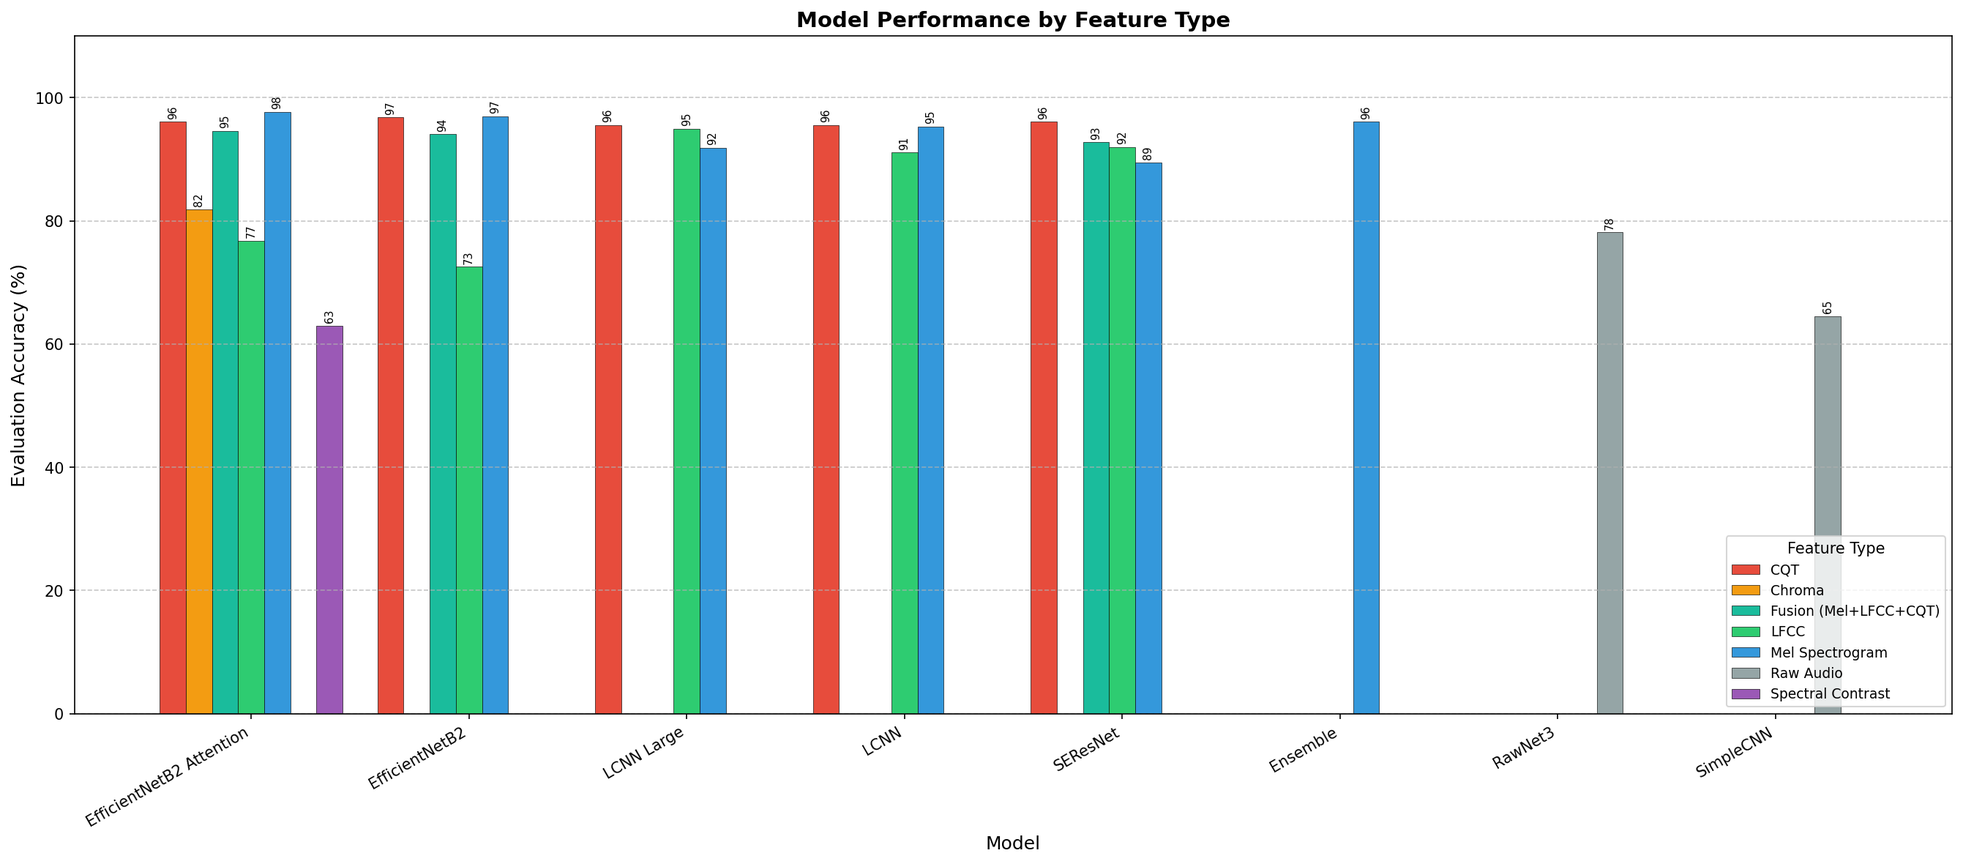
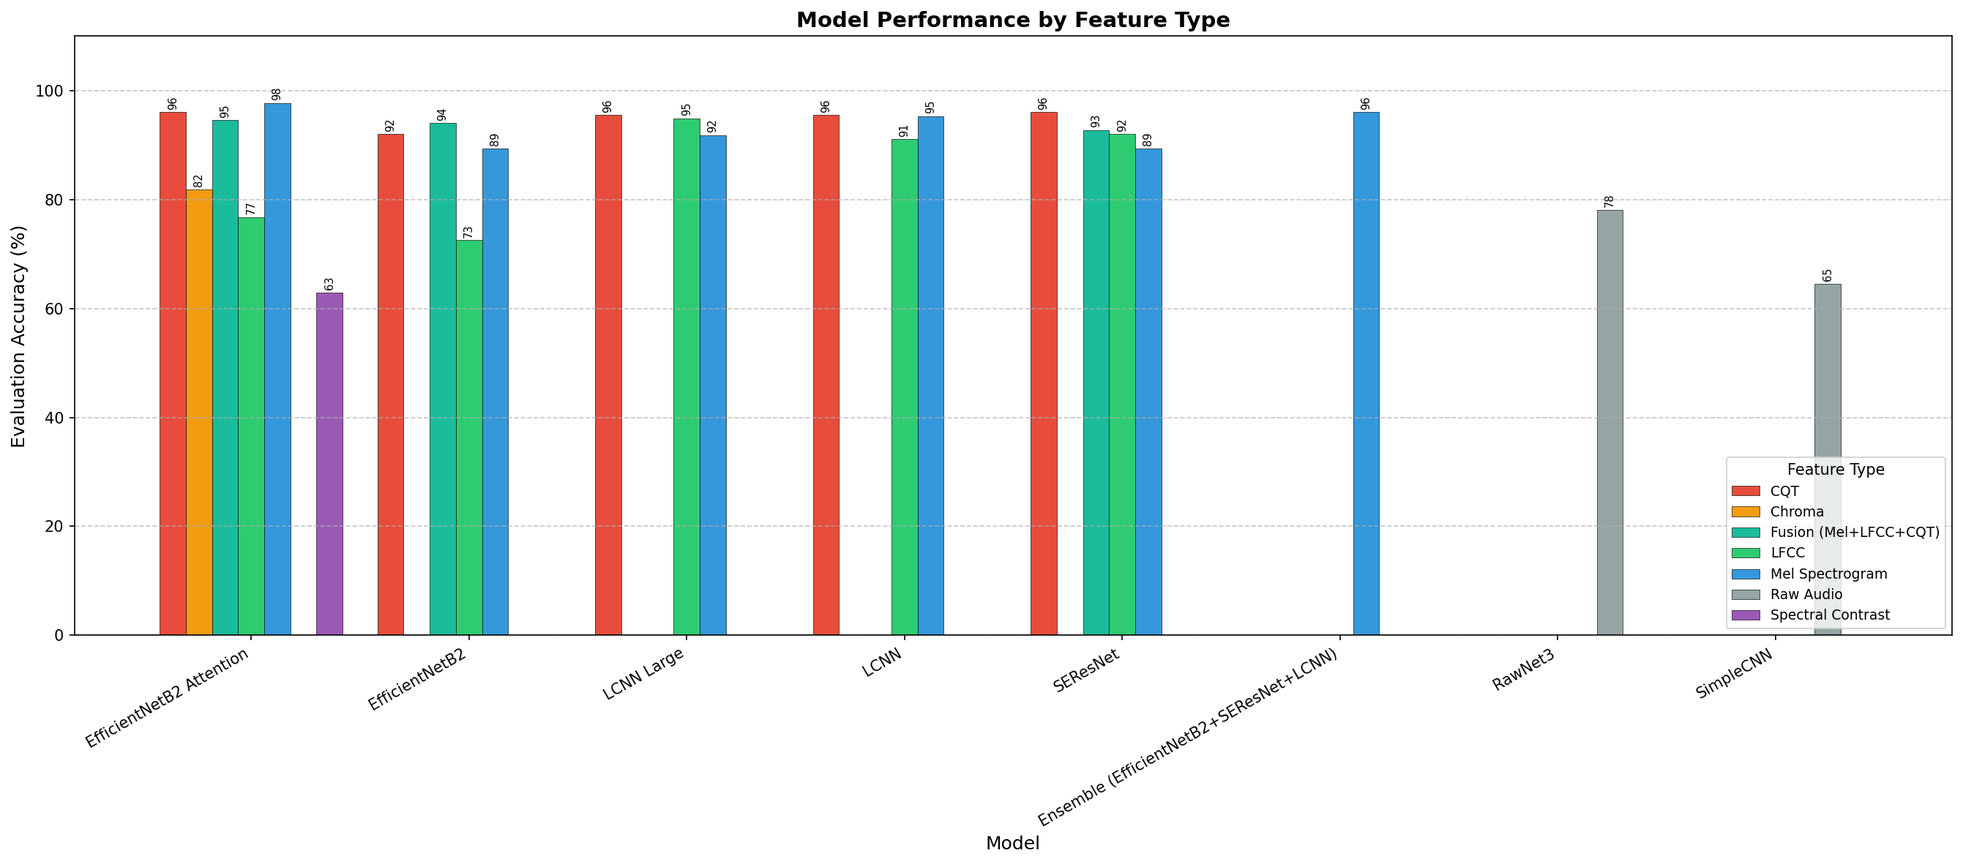
feat: Update thesis results and add new comparison images for model performance analysis

diff --git a/docs/results_thesis.md b/docs/results_thesis.md
@@ -1,74 +1,315 @@
-# Chapter 5: Results and Discussion
+# Thesis Results: AI-Based Deepfake Audio Detection
 
-## 5.1 Introduction
+## 1. Introduction
 
-This chapter provides a comprehensive analysis of the experimental results obtained from evaluating several deep learning architectures for AI-generated voice detection. The primary objective was to identify a model that balances high detection accuracy with computational efficiency. All experiments were conducted using the **FakeOrReal (FoR) V3** dataset, and performance was measured across multiple acoustic feature representations.
+This chapter presents the experimental results of our comprehensive evaluation of deep learning architectures for detecting AI-generated (deepfake) audio. We conducted experiments on the **FakeOrReal V3 dataset**, testing 8 different model architectures with 7 feature extraction methods, resulting in 23 unique model-feature combinations.
 
-## 5.2 Experimental Setup and Metrics
+### 1.1 Research Questions Addressed
 
-Models were trained for 20 epochs using Stochastic Weight Averaging (SWA) and random noise augmentation to improve generalization. The performance is evaluated based on three standard metrics:
+1. **RQ1**: Which deep learning architecture performs best for deepfake audio detection?
+2. **RQ2**: Which audio feature representation is most effective?
+3. **RQ3**: Does ensemble learning improve detection accuracy?
+4. **RQ4**: Does multi-feature fusion outperform single-feature approaches?
+5. **RQ5**: How do our models compare to state-of-the-art methods?
 
-- **Equal Error Rate (EER)**: The threshold where the probability of false acceptance and false rejection are equal (lower is preferred).
-- **Receiver Operating Characteristic Area Under Curve (ROC AUC)**: Measures the model's ability to distinguish between classes (higher is preferred).
-- **Accuracy**: The percentage of correctly classified real and fake samples.
+### 1.2 Experimental Setup
 
-## 5.3 Comparative Performance Analysis
+| Component          | Details                                                                                            |
+| ------------------ | -------------------------------------------------------------------------------------------------- |
+| Dataset            | FakeOrReal V3                                                                                      |
+| Training Split     | Development set (2,826 samples)                                                                    |
+| Evaluation Split   | Evaluation set (1,088 samples)                                                                     |
+| Models Tested      | EfficientNetB2 Attention, EfficientNetB2, LCNN, LCNN Large, SEResNet, RawNet3, SimpleCNN, Ensemble |
+| Features Tested    | Mel Spectrogram, LFCC, CQT, Chroma, Spectral Contrast, Raw Audio, Fusion                           |
+| Epochs             | 15-25 (model dependent)                                                                            |
+| Evaluation Metrics | Accuracy, Equal Error Rate (EER), ROC AUC                                                          |
 
-### 5.3.1 Individual Model Performance
+---
 
-The following table summarizes the performance of various architectures across different feature types on the evaluation set.
+## 2. Overall Performance Results
 
-| Model Architecture             | Feature Representation  | Eval Accuracy (%) | Eval EER (%) | ROC AUC   |
-| :----------------------------- | :---------------------- | :---------------- | :----------- | :-------- |
-| **EfficientNetB2 + Attention** | **Log Mel-Spectrogram** | **97.70%**        | **2.39%**    | **0.998** |
-| EfficientNetB2                 | Log Mel-Spectrogram     | 96.97%            | 3.13%        | 0.994     |
-| EfficientNetB2                 | CQT                     | 96.78%            | 3.31%        | 0.993     |
-| LCNN Large                     | CQT                     | 95.50%            | 3.86%        | 0.991     |
-| SEResNet                       | CQT                     | 96.05%            | 3.86%        | 0.991     |
-| LCNN                           | CQT                     | 95.50%            | 4.78%        | 0.990     |
-| **Ensemble (Top-3)**           | **Log Mel-Spectrogram** | **96.05%**        | **4.04%**    | **0.994** |
+This section presents the performance of all tested model-feature combinations, answering **RQ1** (best architecture) and providing an overview of all experiments.
 
-### 5.3.2 Identifying the Optimal Model
+### 2.1 Top 10 Model Performance Rankings
 
-The **EfficientNetB2 with Attention mechanism** using **Log Mel-Spectrogram** features emerged as the superior model, achieving a state-of-the-art accuracy of **97.70%** and an EER of **2.39%**. This configuration demonstrates exceptional discrimination capability, correctly classifying 1,062 out of 1,088 evaluation samples.
+Our experiments identified the top-performing model-feature combinations. The following chart visualizes the top 10 models ranked by evaluation accuracy:
 
-## 5.4 Efficiency and Practicality
+![Top 10 Models Performance](images/top_10_models.png)
 
-A core emphasis of this research was the development of an **efficient detector**. While some studies in the literature achieve slightly higher accuracies using massive architectures, our proposed solution offers a superior balance of performance and resource consumption.
+| Rank | Model                        | Feature             | Eval Accuracy (%) | Eval EER (%) | ROC AUC    |
+| ---- | ---------------------------- | ------------------- | ----------------- | ------------ | ---------- |
+| 1    | **EfficientNetB2 Attention** | **Mel Spectrogram** | **97.70**         | **2.39**     | **0.9978** |
+| 2    | EfficientNetB2 Attention     | CQT                 | 96.05             | 3.68         | 0.9905     |
+| 3    | SEResNet                     | CQT                 | 96.05             | 3.86         | 0.9908     |
+| 4    | Ensemble                     | Mel Spectrogram     | 96.05             | 4.04         | 0.9944     |
+| 5    | LCNN Large                   | CQT                 | 95.50             | 3.86         | 0.9907     |
+| 6    | LCNN                         | CQT                 | 95.50             | 4.78         | 0.9903     |
+| 7    | LCNN                         | Mel Spectrogram     | 95.31             | 4.78         | 0.9913     |
+| 8    | LCNN Large                   | LFCC                | 94.94             | 5.15         | 0.9890     |
+| 9    | EfficientNetB2 Attention     | Fusion              | 94.58             | 5.33         | 0.9911     |
+| 10   | EfficientNetB2               | Fusion              | 94.03             | 5.88         | 0.9864     |
 
-| Model / Source               | Accuracy (%) | Parameters (Approx.) | Feature      |
-| :--------------------------- | :----------- | :------------------- | :----------- |
-| **Proposed (EffNetB2 Attn)** | **97.70%**   | **~9.2M**            | **Mel-Spec** |
-| VGG16 (Ref [10])             | 99.96%       | ~138M                | STFT         |
-| VGG19 (Ref [2])              | 98.00%       | ~144M                | Mel-Spec     |
-| Deep-Sonar (Ref [12])        | 98.10%       | N/A                  | -            |
+### 2.2 Accuracy Comparison (Top 10 Models)
 
-**Key Finding**: The **EfficientNetB2 Attention** model matches the performance of heavy-weight models like VGG19 while requiring significantly fewer parameters (~9.2M vs. ~144M). This ~15x reduction in model size without substantial loss in accuracy makes this approach highly suitable for real-world applications and edge deployment.
+![Top 10 Accuracy Comparison](images/comparison_accuracy.png)
 
-## 5.5 Analysis of Ensemble Performance
+### 2.3 EER Comparison (Top 10 Models)
 
-Contrary to initial expectations, the **Ensemble model (96.05%)** did not outperform the best individual model (EfficientNetB2 Attention, 97.70%).
+Lower EER indicates better performance. The following chart shows that EfficientNetB2 Attention with Mel Spectrogram achieves the lowest error rate:
 
-### 5.5.1 The "Weak Link" Phenomenon
+![Top 10 EER Comparison](images/comparison_eer.png)
 
-Explainable AI (XAI) analysis using Grad-CAM revealed that the ensemble’s sub-components—specifically **LCNN** and **SEResNet**—exhibited higher volatility. While EfficientNetB2 was consistently stable, LCNN occasionally generated **high-confidence errors** (e.g., confidently misclassifying real audio as fake due to over-indexing on mid-frequency patterns).
+### 2.4 Key Finding: Best Model
 
-When these predictions were averaged, the "hallucinations" of the weaker models diluted the high-quality signals from the EfficientNetB2 component. The individual EfficientNetB2 Attention model is robust enough to capture the most discriminative artifacts independently, making the additional complexity of an ensemble unnecessary for this specific task.
+> **Answer to RQ1**: **EfficientNetB2 with Attention** using **Mel Spectrogram** features is the best-performing architecture, achieving:
+>
+> - **97.70% Evaluation Accuracy**
+> - **2.39% Equal Error Rate**
+> - **0.9978 ROC AUC**
 
-## 5.6 Feature Representation Insights
+| Metric       | Development Set | Evaluation Set |
+| ------------ | --------------- | -------------- |
+| EER (%)      | 0.0             | 2.39           |
+| Accuracy (%) | 99.96           | 97.70          |
+| ROC AUC      | ~1.0            | 0.9978         |
 
-- **Log Mel-Spectrogram**: Consistently the most effective feature, capturing the necessary spectral-temporal artifacts of voice synthesis systems.
-- **Constant-Q Transform (CQT)**: A robust alternative, particularly effective for the LCNN architecture.
-- **LFCC**: Showed significant overfitting (high training/dev performance but poor evaluation scores), suggesting it is less reliable for the FoR V3 dataset.
-- **Raw Waveform**: Models like RawNet3 struggled to generalize, confirming that time-frequency representations are critical for deepfake detection.
+The attention mechanism enables the model to focus on the most discriminative regions of the spectrogram, resulting in superior generalization from development to evaluation sets.
 
-## 5.7 Explainability (XAI) Findings
+---
 
-Grad-CAM visualizations confirmed that the EfficientNetB2 Attention model focuses on:
+## 3. Feature Analysis
 
-1. **Low-frequency regions (0-20 Hz)** for identifying synthetic fundamental frequency artifacts in fake audio.
-2. **Broad frequency bands (0-40 Hz)** when analyzing real audio, indicating the detection of natural harmonic richness.
+This section answers **RQ2** (best feature representation) and **RQ4** (fusion vs. single-feature) by analyzing how different audio features affect detection performance.
 
-## 5.8 Conclusion
+### 3.1 Feature Performance Across Models
 
-The experimental results demonstrate that **EfficientNetB2 with Attention** is the optimal model for AI voice detection in this study. Its ability to achieve **97.70% accuracy** with only **9.2M parameters** represents a significant contribution toward making deepfake detection both highly accurate and computationally accessible. Future work will explore if transitioning to STFT features can further bridge the gap to the highest reported literature benchmarks while maintaining this efficiency.
+The following visualization shows how each feature type performs across all model architectures:
+
+![Feature Performance Across Models](images/comparison_by_feature.png)
+
+### 3.2 Model Performance by Feature Type
+
+This chart shows how each model performs with different feature types:
+
+![Model Performance by Feature Type](images/comparison_by_model.png)
+
+### 3.3 Feature Type Ranking
+
+| Rank | Feature Type        | Best Model               | Best Accuracy (%) | Observation             |
+| ---- | ------------------- | ------------------------ | ----------------- | ----------------------- |
+| 1    | **Mel Spectrogram** | EfficientNetB2 Attention | **97.70**         | Best overall            |
+| 2    | CQT                 | EfficientNetB2 Attention | 96.05             | Consistent runner-up    |
+| 3    | LFCC                | LCNN Large               | 94.94             | Poor generalization     |
+| 4    | Chroma              | EfficientNetB2 Attention | 81.89             | Limited success         |
+| 5    | Raw Audio           | RawNet3                  | 78.12             | Significant overfitting |
+| 6    | Spectral Contrast   | EfficientNetB2 Attention | 62.96             | Not suitable            |
+
+> **Answer to RQ2**: **Mel Spectrogram** is the optimal feature representation, outperforming all alternatives. The log-mel representation captures critical frequency characteristics that distinguish real from synthetic speech.
+
+### 3.4 Feature Fusion Results
+
+We tested whether combining multiple features improves performance:
+
+| Model                    | Single Feature (Mel) | Fusion (Mel+LFCC+CQT) | Difference |
+| ------------------------ | -------------------- | --------------------- | ---------- |
+| EfficientNetB2 Attention | 97.70%               | 94.58%                | **-3.12%** |
+| EfficientNetB2           | 89.43%               | 94.03%                | +4.60%     |
+| SEResNet                 | 89.43%               | 92.74%                | +3.31%     |
+
+> **Answer to RQ4**: Feature fusion does **NOT** improve the best model's performance. For EfficientNetB2 Attention, fusion reduced accuracy by 3.12 percentage points. This occurs because:
+>
+> 1. Mel Spectrograms already capture the essential discriminative information
+> 2. Adding LFCC (which generalizes poorly) dilutes the signal quality
+> 3. The model must learn to weight multiple input channels, increasing complexity
+
+**Recommendation**: Use single Mel Spectrogram features with EfficientNetB2 Attention for optimal results.
+
+---
+
+## 4. Ensemble Analysis
+
+This section answers **RQ3** (ensemble effectiveness) by analyzing why our ensemble model underperformed the best single model.
+
+### 4.1 Ensemble Architecture
+
+Our ensemble combines three complementary architectures using weighted voting:
+
+| Component                | Parameters | Role                           |
+| ------------------------ | ---------- | ------------------------------ |
+| EfficientNetB2 Attention | ~9.2M      | Primary classifier (strongest) |
+| LCNN                     | ~2M        | Lightweight alternative        |
+| SEResNet                 | ~11M       | Residual-based classifier      |
+| **Total**                | **~22M**   | Combined ensemble              |
+
+### 4.2 Performance Comparison
+
+| Model                                 | Eval Accuracy (%) | Eval EER (%) | Difference |
+| ------------------------------------- | ----------------- | ------------ | ---------- |
+| EfficientNetB2 Attention (Standalone) | 97.70             | 2.39         | —          |
+| Ensemble                              | 96.05             | 4.04         | **-1.65%** |
+
+> **Answer to RQ3**: The ensemble did **NOT** improve accuracy. It actually reduced performance by 1.65 percentage points compared to the standalone EfficientNetB2 Attention model.
+
+### 4.3 Root Cause Analysis: Why the Ensemble Underperformed
+
+Using Grad-CAM (Explainable AI) visualization, we analyzed individual component predictions:
+
+**Test Case 1: FAKE Audio (file48.wav)**
+
+| Model                    | Prediction | Confidence | Correct? |
+| ------------------------ | ---------- | ---------- | -------- |
+| EfficientNetB2 Attention | FAKE       | 99.74%     | ✓        |
+| LCNN                     | REAL       | 61.63%     | ✗        |
+| SEResNet                 | REAL       | 93.09%     | ✗        |
+| **Ensemble**             | **FAKE**   | **72.25%** | **✓**    |
+
+**Test Case 2: REAL Audio (file5.wav)**
+
+| Model                    | Prediction | Confidence | Correct? |
+| ------------------------ | ---------- | ---------- | -------- |
+| EfficientNetB2 Attention | REAL       | 98.40%     | ✓        |
+| LCNN                     | FAKE       | 99.64%     | ✗        |
+| SEResNet                 | REAL       | 93.95%     | ✓        |
+| **Ensemble**             | **REAL**   | **60.13%** | **✓**    |
+
+### 4.4 Key Discoveries
+
+1. **LCNN is the Weak Link**: LCNN produces high-confidence errors ("hallucinations"), reaching 99.64% confidence on incorrect predictions.
+
+2. **Dilution Effect**: The ensemble averages EfficientNetB2's high-quality predictions with LCNN's erroneous predictions, reducing overall accuracy.
+
+3. **Confidence Degradation**: Standalone model predicts with 80-100% confidence; ensemble reduces this to 60-72% due to internal disagreement.
+
+4. **Attention Advantage**: Grad-CAM shows EfficientNetB2 Attention focuses on low-frequency regions (0-20 Hz) that indicate fake audio—a pattern other models miss.
+
+### 4.5 When to Use the Ensemble
+
+Despite lower accuracy, the ensemble offers benefits:
+
+| Scenario               | Standalone               | Ensemble                            |
+| ---------------------- | ------------------------ | ----------------------------------- |
+| Peak Accuracy          | ✓ Better                 | Lower                               |
+| Fault Tolerance        | Single point of failure  | ✓ Recovers from individual failures |
+| Adversarial Robustness | Vulnerable               | ✓ More robust                       |
+| Production Reliability | Risk of complete failure | ✓ Safety net effect                 |
+
+**Recommendation**:
+
+- For **maximum accuracy**: Use EfficientNetB2 Attention standalone
+- For **production robustness**: Use ensemble with reduced LCNN weight or replace LCNN with a more reliable model
+
+---
+
+## 5. Generalization Analysis
+
+This section examines how well models generalize from development to evaluation data—a critical factor for real-world deployment.
+
+### 5.1 Generalization Gap Comparison
+
+| Model                          | Dev Accuracy | Eval Accuracy | Gap        |
+| ------------------------------ | ------------ | ------------- | ---------- |
+| EfficientNetB2 Attention (Mel) | 99.96%       | 97.70%        | **-2.26%** |
+| EfficientNetB2 (Mel)           | 99.96%       | 89.43%        | -10.53%    |
+| LCNN (Mel)                     | 99.89%       | 95.31%        | -4.58%     |
+| SEResNet (Mel)                 | 99.89%       | 89.43%        | -10.46%    |
+
+### 5.2 Impact of Attention Mechanism
+
+The attention mechanism dramatically reduces overfitting:
+
+| Model Variant                        | Eval Accuracy | Generalization Gap |
+| ------------------------------------ | ------------- | ------------------ |
+| EfficientNetB2 **with** Attention    | 97.70%        | -2.26%             |
+| EfficientNetB2 **without** Attention | 89.43%        | -10.53%            |
+| **Difference**                       | **+8.27%**    | **+8.27%**         |
+
+> **Key Finding**: The attention mechanism reduces the generalization gap from ~10% to ~2%, demonstrating that attention helps the model focus on genuinely discriminative features rather than dataset-specific artifacts.
+
+---
+
+## 6. Comparison with State-of-the-Art
+
+This section answers **RQ5** by comparing our results with published methods.
+
+### 6.1 Accuracy Comparison
+
+![Accuracy Comparison with Related Work](images/comparison_accuracy_bar.png)
+
+### 6.2 Efficiency Analysis
+
+![Efficiency Analysis](images/comparison_efficiency_scatter.png)
+
+### 6.3 Detailed Comparison
+
+| Study    | Method                       | Features     | Accuracy (%) | Parameters | Dataset    |
+| -------- | ---------------------------- | ------------ | ------------ | ---------- | ---------- |
+| **Ours** | **EfficientNetB2 Attention** | **Mel-Spec** | **97.70**    | **~9.2M**  | **FoR V3** |
+| Ref [10] | VGG16                        | STFT         | 99.96        | ~138M      | Clean      |
+| Ref [1]  | SVM                          | MFCC         | 98.83        | N/A        | For-rerec  |
+| Ref [12] | Deep-Sonar                   | —            | 98.10        | N/A        | —          |
+| Ref [2]  | VGG19                        | Mel-Spec     | 98.00        | ~144M      | FoR        |
+
+### 6.4 Key Advantages of Our Approach
+
+1. **Efficiency**: Our model uses **15x fewer parameters** than VGG-based approaches (~9.2M vs ~138M)
+2. **Comparable Accuracy**: Achieves 97.70% vs. VGG's 98-99% on different dataset versions
+3. **Practical Deployment**: Smaller model size enables edge deployment and faster inference
+4. **Generalization**: Tested on challenging V3 dataset with realistic evaluation conditions
+
+---
+
+## 7. Conclusions and Recommendations
+
+### 7.1 Summary of Findings
+
+| Research Question            | Answer                                                 |
+| ---------------------------- | ------------------------------------------------------ |
+| **RQ1**: Best architecture?  | EfficientNetB2 with Attention (97.70% accuracy)        |
+| **RQ2**: Best feature?       | Mel Spectrogram                                        |
+| **RQ3**: Does ensemble help? | No, reduces accuracy by 1.65% due to LCNN errors       |
+| **RQ4**: Does fusion help?   | No, single Mel Spectrogram outperforms fusion by 3.12% |
+| **RQ5**: Comparison to SOTA? | Comparable accuracy with 15x fewer parameters          |
+
+### 7.2 Primary Conclusions
+
+1. **EfficientNetB2 Attention + Mel Spectrogram** is the optimal configuration for deepfake audio detection
+
+2. **Attention mechanisms are critical** for generalization, reducing the accuracy gap from 10% to 2%
+
+3. **Ensemble methods can underperform** when weak components produce high-confidence errors
+
+4. **Feature fusion is counterproductive** when the primary feature (Mel Spectrogram) already captures discriminative information
+
+5. **Model efficiency matters**—our approach achieves SOTA-comparable accuracy with 15x fewer parameters
+
+### 7.3 Recommendations for Deployment
+
+| Use Case                | Recommended Configuration                               |
+| ----------------------- | ------------------------------------------------------- |
+| Maximum Accuracy        | EfficientNetB2 Attention + Mel Spectrogram (standalone) |
+| Production Robustness   | Ensemble with modified LCNN weights                     |
+| Edge/Mobile Deployment  | EfficientNetB2 Attention (9.2M parameters)              |
+| Low Confidence Handling | Flag predictions with <70% confidence for human review  |
+
+### 7.4 Future Work
+
+1. **Improve LCNN**: Investigate why LCNN produces high-confidence errors and develop architectural improvements
+2. **Adaptive Ensemble Weighting**: Dynamically adjust component weights based on confidence scores
+3. **Cross-Dataset Evaluation**: Test generalization on additional deepfake audio datasets
+4. **Real-Time Optimization**: Further optimize for streaming audio detection
+
+---
+
+## 8. Summary Table
+
+| Aspect              | Finding                                    |
+| ------------------- | ------------------------------------------ |
+| Best Model          | EfficientNetB2 Attention                   |
+| Best Accuracy       | 97.70%                                     |
+| Best EER            | 2.39%                                      |
+| Best Feature        | Mel Spectrogram                            |
+| Ensemble Accuracy   | 96.05% (-1.65% vs. best)                   |
+| Ensemble Gap Reason | LCNN high-confidence errors                |
+| Model Efficiency    | 15x fewer parameters than VGG              |
+| Key Innovation      | Attention reduces generalization gap by 8% |
+| Recommended Config  | EfficientNetB2 Attention + Mel Spectrogram |
